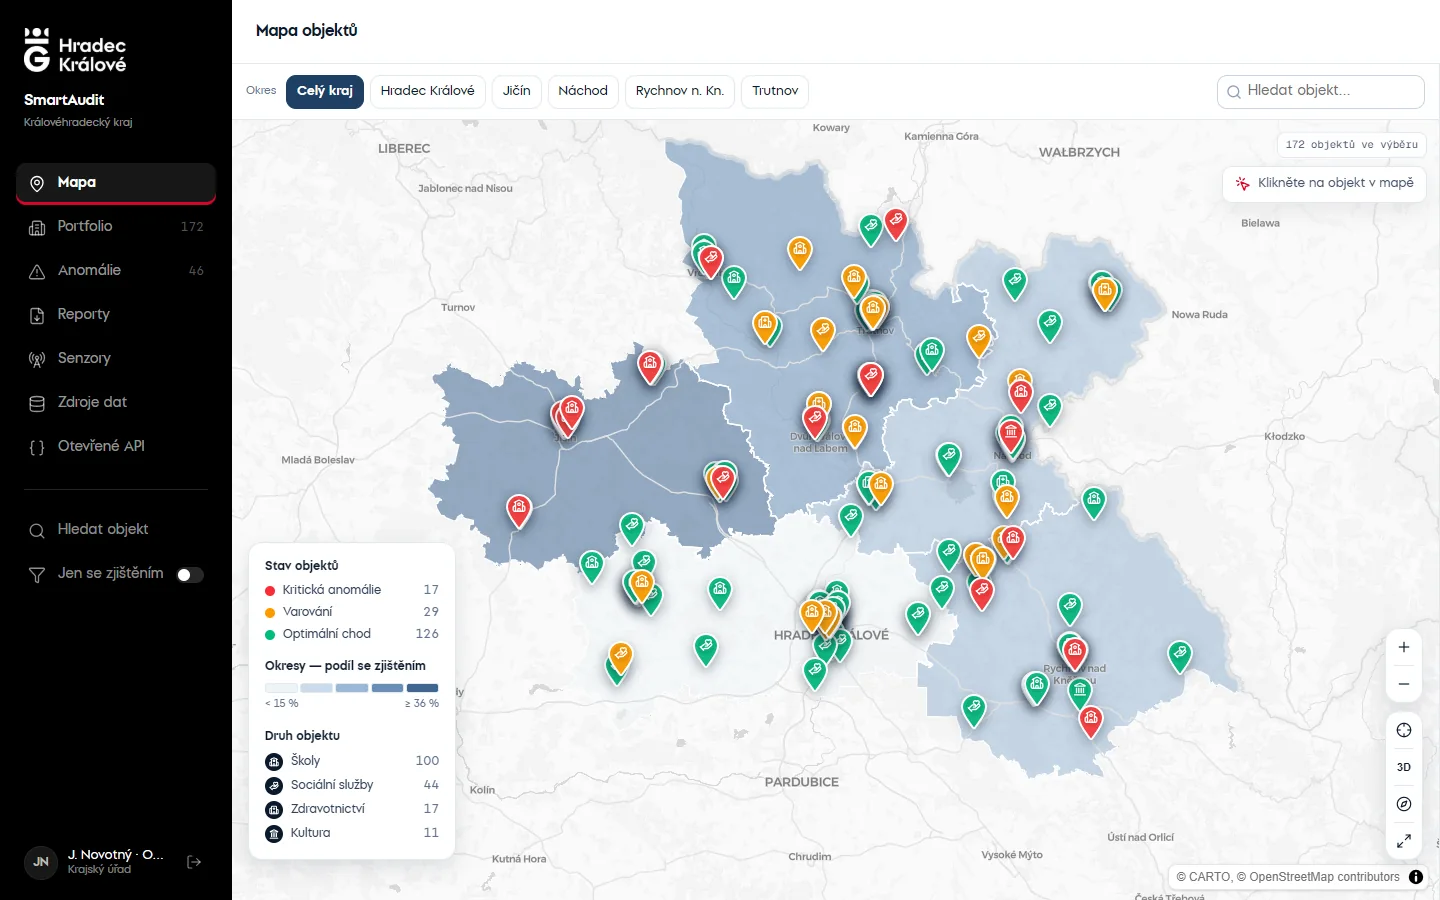
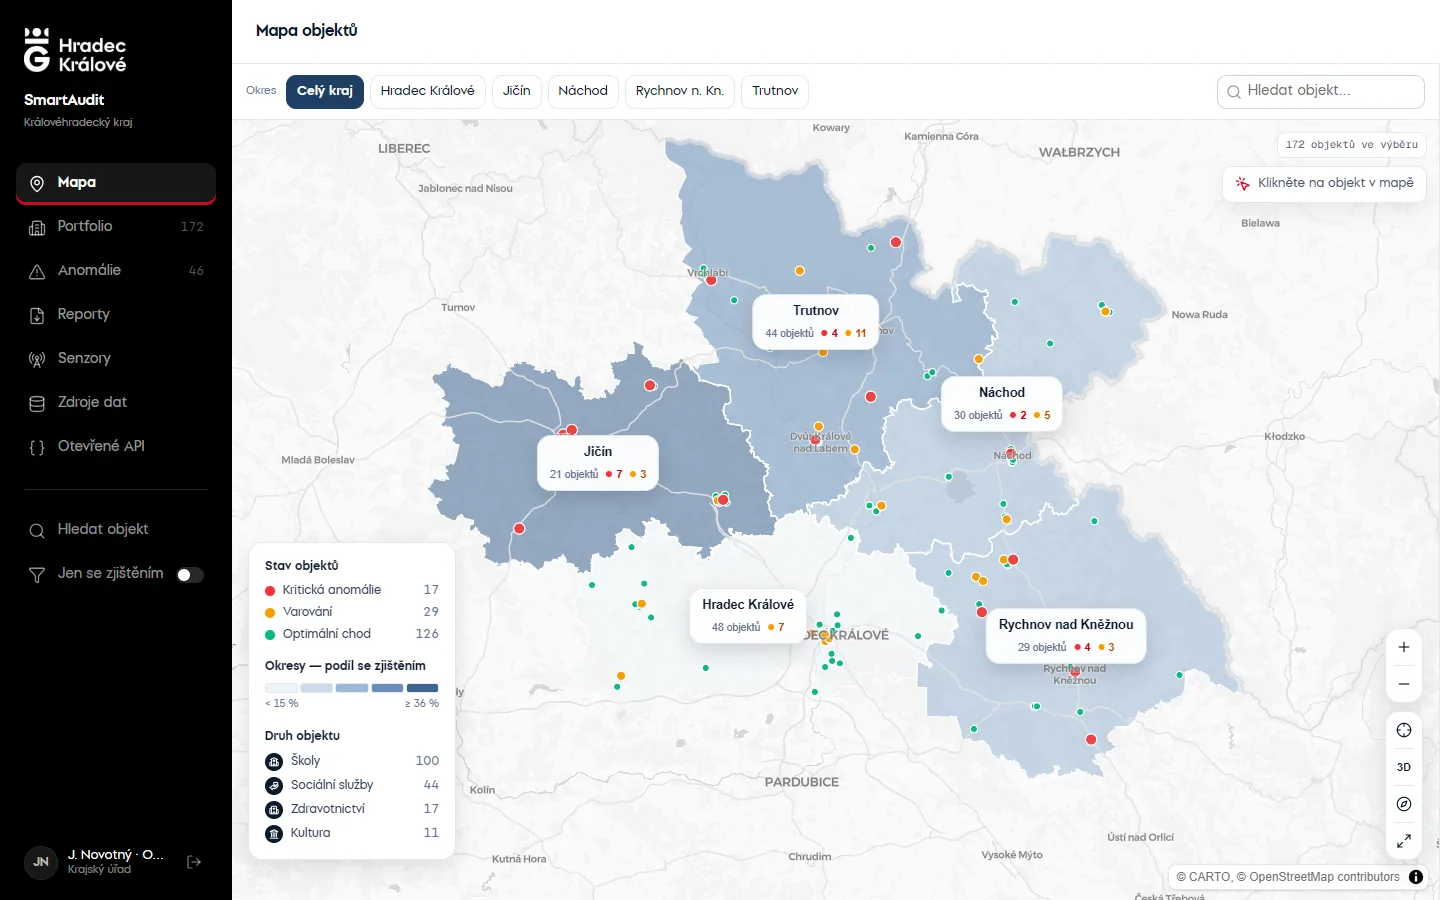
Merge branch 'feat/map-levels'

diff --git a/frontend/app/(app)/_components/district-layer.tsx b/frontend/app/(app)/_components/district-layer.tsx
@@ -4,7 +4,7 @@ import { useEffect, useMemo, useRef, useState } from "react";
 import type { Feature, FeatureCollection, Polygon, Position } from "geojson";
 import type { ExpressionSpecification, LngLatBoundsLike } from "maplibre-gl";
 import { X } from "lucide-react";
-import { MapGeoJSON, useMap, type MapGeoJSONEvent } from "@/components/ui/map";
+import { MapGeoJSON, MapMarker, MarkerContent, useMap, type MapGeoJSONEvent } from "@/components/ui/map";
 import { issueShareColor, type DistrictStats } from "@/lib/district-shading";
 import { formatCzk } from "@/lib/facility-meta";
 import type { RegionCollection, RegionFeature } from "@/types/api";
@@ -59,6 +59,9 @@ type DistrictLayerProps = {
   // Při vybraném objektu se kamera neřídí okresem (letí k budově)
   facilitySelected: boolean;
   home: { center: [number, number]; zoom: number };
+  // Pohled na celý kraj: uprostřed každého okresu štítek se souhrnem, klik ho vybere
+  showLabels: boolean;
+  onSelect: (code: string) => void;
   onClear: () => void;
 };
 
@@ -66,7 +69,7 @@ type Hover = { stats: DistrictStats; x: number; y: number };
 
 // Okresy barevně podle podílu objektů se zjištěním. Vybraný okres: zbytek mapy zešedne maskou
 // a okres má červený obrys se září; vlevo nahoře štítek se souhrnem a návratem na celý kraj.
-export function DistrictLayer({ stats, selectedCode, facilitySelected, home, onClear }: DistrictLayerProps) {
+export function DistrictLayer({ stats, selectedCode, facilitySelected, home, showLabels, onSelect, onClear }: DistrictLayerProps) {
   const { map, isLoaded } = useMap();
   const [districts, setDistricts] = useState<RegionCollection | null>(null);
   const [hover, setHover] = useState<Hover | null>(null);
@@ -160,9 +163,48 @@ export function DistrictLayer({ stats, selectedCode, facilitySelected, home, onC
       <MapGeoJSON id="district-glow" data={outline} beforeId={HIGHLIGHT_BEFORE_LAYER} fillPaint={false} linePaint={glowPaint} />
       <MapGeoJSON id="district-outline" data={outline} beforeId={HIGHLIGHT_BEFORE_LAYER} fillPaint={false} linePaint={outlinePaint} />
 
-      {hover && (!selectedCode || hover.stats.code === selectedCode) && <DistrictTooltip hover={hover} selected={hover.stats.code === selectedCode} />}
+      {showLabels &&
+        districts.features.map((feature) => {
+          const entry = stats[feature.properties.code];
+          if (!entry) return null;
+          const [longitude, latitude] = labelPoint(feature);
+
+          return (
+            <MapMarker key={feature.properties.code} longitude={longitude} latitude={latitude} onClick={() => onSelect(entry.code)}>
+              <MarkerContent>
+                <DistrictLabel stats={entry} />
+              </MarkerContent>
+            </MapMarker>
+          );
+        })}
+
+      {hover && !showLabels && (!selectedCode || hover.stats.code === selectedCode) && <DistrictTooltip hover={hover} selected={hover.stats.code === selectedCode} />}
       {selectedStats && <SelectedDistrictChip stats={selectedStats} onClear={onClear} />}
     </>
+  );
+}
+
+// Štítek okresu v pohledu na kraj — název, počet objektů a kolik z nich má zjištění
+function DistrictLabel({ stats }: { stats: DistrictStats }) {
+  return (
+    <span className="flex cursor-pointer flex-col items-center rounded-xl border border-slate-200 bg-white/95 px-3 py-1.5 text-center text-hk-navy shadow-[0_8px_20px_rgba(11,25,44,0.16)] transition-transform hover:-translate-y-0.5 hover:border-hk-red/50">
+      <span className="text-[12.5px] font-bold whitespace-nowrap">{stats.name}</span>
+      <span className="mt-0.5 flex items-center gap-2 text-[10.5px] whitespace-nowrap text-slate-500">
+        {stats.total} objektů
+        {stats.critical > 0 && (
+          <span className="inline-flex items-center gap-1 font-bold text-red-700">
+            <span className="size-1.5 rounded-full bg-red-500" aria-hidden />
+            {stats.critical}
+          </span>
+        )}
+        {stats.warning > 0 && (
+          <span className="inline-flex items-center gap-1 font-bold text-amber-700">
+            <span className="size-1.5 rounded-full bg-amber-500" aria-hidden />
+            {stats.warning}
+          </span>
+        )}
+      </span>
+    </span>
   );
 }
 
@@ -229,6 +271,29 @@ function matchByCode<T extends string | number>(stats: Record<string, DistrictSt
 
 function outerRings(feature: RegionFeature): Position[][] {
   return feature.geometry.type === "Polygon" ? [feature.geometry.coordinates[0]] : feature.geometry.coordinates.map((polygon) => polygon[0]);
+}
+
+// Místo pro štítek: těžiště největšího kruhu okresu (vzorec plochy mnohoúhelníku)
+function labelPoint(feature: RegionFeature): Position {
+  const rings = outerRings(feature);
+  let best: { area: number; point: Position } = { area: 0, point: rings[0][0] };
+
+  for (const ring of rings) {
+    let area = 0;
+    let x = 0;
+    let y = 0;
+
+    for (let i = 0, j = ring.length - 1; i < ring.length; j = i++) {
+      const cross = ring[j][0] * ring[i][1] - ring[i][0] * ring[j][1];
+      area += cross;
+      x += (ring[j][0] + ring[i][0]) * cross;
+      y += (ring[j][1] + ring[i][1]) * cross;
+    }
+
+    if (Math.abs(area) > Math.abs(best.area)) best = { area, point: [x / (3 * area), y / (3 * area)] };
+  }
+
+  return best.point;
 }
 
 // Obdélník kolem kraje s dírou ve tvaru vybraného okresu — další kruhy polygonu jsou díry

diff --git a/frontend/app/(app)/_components/facility-map.tsx b/frontend/app/(app)/_components/facility-map.tsx
@@ -1,12 +1,13 @@
 "use client";
 
-import { useEffect, useRef } from "react";
+import { useEffect, useRef, useState } from "react";
 import { usePathname, useRouter, useSearchParams } from "next/navigation";
 import { Map, MapMarker, MarkerContent, MarkerLabel, MarkerTooltip, useMap } from "@/components/ui/map";
 import type { DistrictStats } from "@/lib/district-shading";
 import { withParams } from "@/lib/search-params";
 import type { AuditStatus, FacilityListItem } from "@/types/api";
 import { DistrictLayer } from "./district-layer";
+import { FacilityDots } from "./facility-dots";
 import { FacilityPin, FacilityTooltipContent, SelectedLabel, TOOLTIP_CLASS } from "./facility-pin";
 import { MapClickRouter } from "./map-click-router";
 import { MapLegend } from "./map-legend";
@@ -32,6 +33,9 @@ const DRAW_ORDER: Record<AuditStatus, number> = {
   Critical: 2,
 };
 
+// Od tohoto přiblížení se místo teček ukážou špendlíky i bez výběru okresu (uživatel si přiblížil sám)
+const PIN_ZOOM = 10.5;
+
 // Tooltip vpravo od hlavy špendlíku (anchor bottom → hlava je ~18 px nad bodem), aby nezakryl budovu
 const TOOLTIP_OFFSET: [number, number] = [18, -18];
 
@@ -50,6 +54,11 @@ export function FacilityMap({ facilities, selectedId, selectedDistrict, district
   // Vybraný objekt se kreslí poslední, aby ho nepřekryly okolní špendlíky
   const ordered = facilities.toSorted((a, b) => Number(a.id === selectedId) - Number(b.id === selectedId) || DRAW_ORDER[a.status] - DRAW_ORDER[b.status]);
   const selected = facilities.find((f) => f.id === selectedId) ?? null;
+  const [zoomedIn, setZoomedIn] = useState(false);
+
+  // Dvě úrovně: celý kraj = štítky okresů a tečky, vybraný okres (nebo objekt, nebo přiblížení) = špendlíky.
+  // Seznam objektů je při vybraném okresu už filtrovaný, takže se ukážou jen špendlíky toho okresu.
+  const showPins = selectedDistrict !== null || selected !== null || zoomedIn;
 
   function navigate(changes: Record<string, string | null>) {
     router.push(withParams(pathname, searchParams, changes), { scroll: false });
@@ -65,8 +74,12 @@ export function FacilityMap({ facilities, selectedId, selectedDistrict, district
           selectedCode={selectedDistrict}
           facilitySelected={selected !== null}
           home={KHK_HOME}
+          showLabels={!showPins}
+          onSelect={(code) => navigate({ okres: code, objekt: null, panel: null })}
           onClear={() => navigate({ okres: null })}
         />
+        <FacilityDots facilities={facilities} visible={!showPins} />
+        <ZoomThreshold threshold={PIN_ZOOM} onChange={setZoomedIn} />
         <SelectedBuilding3D facilityId={selected?.id ?? null} status={selected?.status ?? "Nominal"} />
         <FlyToSelected facilityId={selected?.id ?? null} longitude={selected?.longitude} latitude={selected?.latitude} />
         <MapClickRouter
@@ -77,7 +90,7 @@ export function FacilityMap({ facilities, selectedId, selectedDistrict, district
           onDeselectFacility={() => navigate({ objekt: null, panel: null })}
         />
 
-        {ordered.map((facility) => {
+        {showPins && ordered.map((facility) => {
           const isSelected = facility.id === selectedId;
 
           return (
@@ -110,6 +123,32 @@ export function FacilityMap({ facilities, selectedId, selectedDistrict, district
       <MapLegend facilities={facilities} />
     </div>
   );
+}
+
+// Hlásí jen překročení prahu přiblížení — ne každý krok zoomu, jinak by se mapa překreslovala při každém pohybu kolečkem
+function ZoomThreshold({ threshold, onChange }: { threshold: number; onChange: (above: boolean) => void }) {
+  const { map, isLoaded } = useMap();
+
+  useEffect(() => {
+    if (!map || !isLoaded) return;
+
+    let above = map.getZoom() >= threshold;
+    onChange(above);
+
+    function handleZoom() {
+      const next = map!.getZoom() >= threshold;
+      if (next === above) return;
+      above = next;
+      onChange(next);
+    }
+
+    map.on("zoom", handleZoom);
+    return () => {
+      map.off("zoom", handleZoom);
+    };
+  }, [map, isLoaded, threshold, onChange]);
+
+  return null;
 }
 
 // Po výběru objektu mapa přeletí k budově a nakloní se, aby byla vidět ve 3D;

diff --git a/frontend/app/(app)/_components/facility-dots.tsx b/frontend/app/(app)/_components/facility-dots.tsx
@@ -1,0 +1,79 @@
+"use client";
+
+import { useEffect } from "react";
+import type { FeatureCollection } from "geojson";
+import type { GeoJSONSource } from "maplibre-gl";
+import { useMap } from "@/components/ui/map";
+import type { FacilityListItem } from "@/types/api";
+
+const SOURCE_ID = "facility-dots";
+const LAYER_ID = "facility-dots";
+
+// Nad silnicemi a výplní okresů, pod budovami a popisky míst
+const BEFORE_LAYER = "building";
+
+type FacilityDotsProps = {
+  facilities: FacilityListItem[];
+  visible: boolean;
+};
+
+// Pohled na celý kraj: objekty jen jako malé tečky ve stavové barvě, vykreslené přímo v mapě.
+// Nejdou na ně klikat, takže klik vždy trefí okres; kritické objekty jsou větší, aby problémy zůstaly vidět.
+export function FacilityDots({ facilities, visible }: FacilityDotsProps) {
+  const { map, isLoaded } = useMap();
+
+  useEffect(() => {
+    if (!map || !isLoaded) return;
+
+    map.addSource(SOURCE_ID, { type: "geojson", data: { type: "FeatureCollection", features: [] } });
+    map.addLayer(
+      {
+        id: LAYER_ID,
+        type: "circle",
+        source: SOURCE_ID,
+        layout: {
+          // Kritické nahoře, aby je nepřekryly zelené
+          "circle-sort-key": ["match", ["get", "status"], "Critical", 2, "Warning", 1, 0],
+        },
+        paint: {
+          "circle-color": ["match", ["get", "status"], "Critical", "#ef4444", "Warning", "#f59e0b", "#10b981"],
+          "circle-radius": ["match", ["get", "status"], "Critical", 5.5, "Warning", 4.5, 3.5],
+          "circle-stroke-color": "#ffffff",
+          "circle-stroke-width": 1.2,
+        },
+      },
+      map.getLayer(BEFORE_LAYER) ? BEFORE_LAYER : undefined,
+    );
+
+    return () => {
+      try {
+        if (map.getLayer(LAYER_ID)) map.removeLayer(LAYER_ID);
+        if (map.getSource(SOURCE_ID)) map.removeSource(SOURCE_ID);
+      } catch {
+        // styl se právě přenačítá
+      }
+    };
+  }, [map, isLoaded]);
+
+  useEffect(() => {
+    if (!map || !isLoaded) return;
+
+    const data: FeatureCollection = {
+      type: "FeatureCollection",
+      features: facilities.map((f) => ({
+        type: "Feature",
+        geometry: { type: "Point", coordinates: [f.longitude, f.latitude] },
+        properties: { status: f.status },
+      })),
+    };
+
+    (map.getSource(SOURCE_ID) as GeoJSONSource | undefined)?.setData(data);
+  }, [map, isLoaded, facilities]);
+
+  useEffect(() => {
+    if (!map || !isLoaded || !map.getLayer(LAYER_ID)) return;
+    map.setLayoutProperty(LAYER_ID, "visibility", visible ? "visible" : "none");
+  }, [map, isLoaded, visible]);
+
+  return null;
+}

diff --git a/frontend/app/(public)/page.tsx b/frontend/app/(public)/page.tsx
@@ -111,8 +111,8 @@ export default async function LandingPage() {
       {/* Funkce */}
       <section className="mx-auto max-w-6xl space-y-24 px-4 py-20 sm:px-6">
         <FeatureRow icon={MapIcon} eyebrow="Mapa kraje" title="Celý kraj na jedné mapě" image={{ src: "/landing/mapa-okresy.webp", alt: "Mapa okresů obarvených podle podílu budov se zjištěním", ...SHOT }}>
-          <p>Okresy obarvené podle toho, kolik budov má problém. Klik na okres ho zvýrazní, klik na špendlík přiblíží budovu ve 3D.</p>
-          <Bullets items={["Barva špendlíku = stav budovy, ikona = druh", "Filtr okresu, hledání a jen budovy se zjištěním", "3D budova z katastru v barvě stavu"]} />
+          <p>Nejdřív kraj po okresech, pak budovy v okrese, nakonec jedna budova ve 3D. Okresy mají barvu podle toho, kolik budov má problém.</p>
+          <Bullets items={["Na kraji štítky okresů s počty a tečky budov", "Po výběru okresu špendlíky jen z něj — barva = stav, ikona = druh", "3D budova z katastru v barvě stavu"]} />
         </FeatureRow>
 
         <FeatureRow

diff --git a/tools/screenshots/capture.py b/tools/screenshots/capture.py
@@ -64,6 +64,7 @@ def main():
     parser.add_argument("--api", default="http://localhost:8080")
     parser.add_argument("--facility", default="SKO-5205-01", help="kód objektu pro 3D a veřejnou kartu")
     parser.add_argument("--out", default=str(ROOT / "frontend" / "public" / "landing"))
+    parser.add_argument("--only", nargs="*", help="jen vybrané snímky, např. --only mapa-okresy pdf")
     args = parser.parse_args()
 
     out = Path(args.out)
@@ -84,6 +85,8 @@ def main():
         page.wait_for_url("**/mapa")
 
         def shot(path, name, wait=2500):
+            if args.only and name not in args.only:
+                return
             page.goto(args.web + path)
             page.wait_for_load_state("load")
             page.mouse.move(1430, 890)
@@ -107,7 +110,8 @@ def main():
 
         browser.close()
 
-    pdf_sheet(api(args.api, f"/api/reports/facility/{critical['id']}.pdf", token, raw=True), out, "pdf")
+    if not args.only or "pdf" in args.only:
+        pdf_sheet(api(args.api, f"/api/reports/facility/{critical['id']}.pdf", token, raw=True), out, "pdf")
 
 
 if __name__ == "__main__":

diff --git a/README.md b/README.md
@@ -72,7 +72,7 @@ Bez internetu se data načtou z lokálních snapshotů v `seed/opendata/`. Vlast
 ## ✨ Hlavní Funkce
 
 - **📡 Skutečná čidla IQRF:** IQRF gateway se přes MQTT připojí k aplikaci, ta sama najde uzly a senzory (teplota, CO₂, vlhkost, osvětlení, hluk, pohyb…) a po přiřazení do místnosti nahradí simulaci skutečným měřením. Návod v [docs/SENZORY_IQRF.md](docs/SENZORY_IQRF.md), emulátor gatewaye v `tools/iqrf-emulator/`.
-- **🗺 Mapa objektů kraje:** Šedý podklad (mapcn), okresy obarvené podle podílu objektů se zjištěním (klik vybere okres), piny podle stavu a druhu budovy a vyhledávání. Na startu není vybraný žádný objekt; po kliknutí mapa přeletí k budově a ukáže ji ve 3D (vybraná budova „vyroste“ v barvě stavu, okolí zprůhlední). Výběr zruší křížek, klik do mapy nebo Esc.
+- **🗺 Mapa objektů kraje:** Šedý podklad (mapcn) ve dvou úrovních — na celém kraji štítky okresů (počet objektů, kritické a varování) a malé tečky objektů, okresy obarvené podle podílu objektů se zjištěním; klik na okres ho vybere a teprve pak se ukážou špendlíky jen z něj (barva = stav, ikona = druh). Špendlíky se ukážou i po ručním přiblížení. Na startu není vybraný žádný objekt; po kliknutí mapa přeletí k budově a ukáže ji ve 3D (vybraná budova „vyroste“ v barvě stavu, okolí zprůhlední). Výběr zruší křížek, klik do mapy nebo Esc.
 - **📋 Inspekční panel:** Přehled, telemetrie (grafy a „Místnosti teď“ s odznakem živého čidla), auditní zjištění a karta budovy ČÚZK. Schematický řez budovou je zatím skrytý (`FEATURES.buildingSection`).
 - **👪 Pro veřejnost (`/objekty`):** bez přihlášení — najdi svou školu nebo domov, přehled kvality vnitřního vzduchu (ne žebříček), veřejná karta objektu s CO₂ po místnostech, grafem za 24 h, radou kdy větrat a tím, co kraj v budově řeší (bez Kč). QR kód k vytištění na dveře třídy.
 - **🏠 Landing page (`/`):** představení aplikace se snímky, živými čísly z otevřeného API a vstupem do dema.
